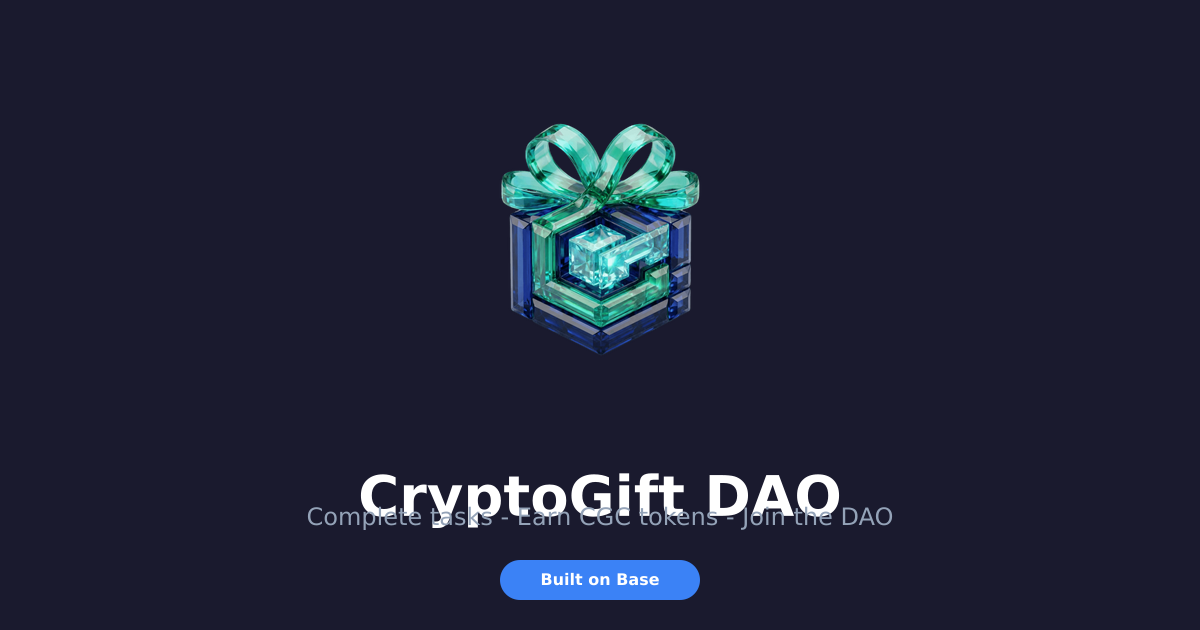
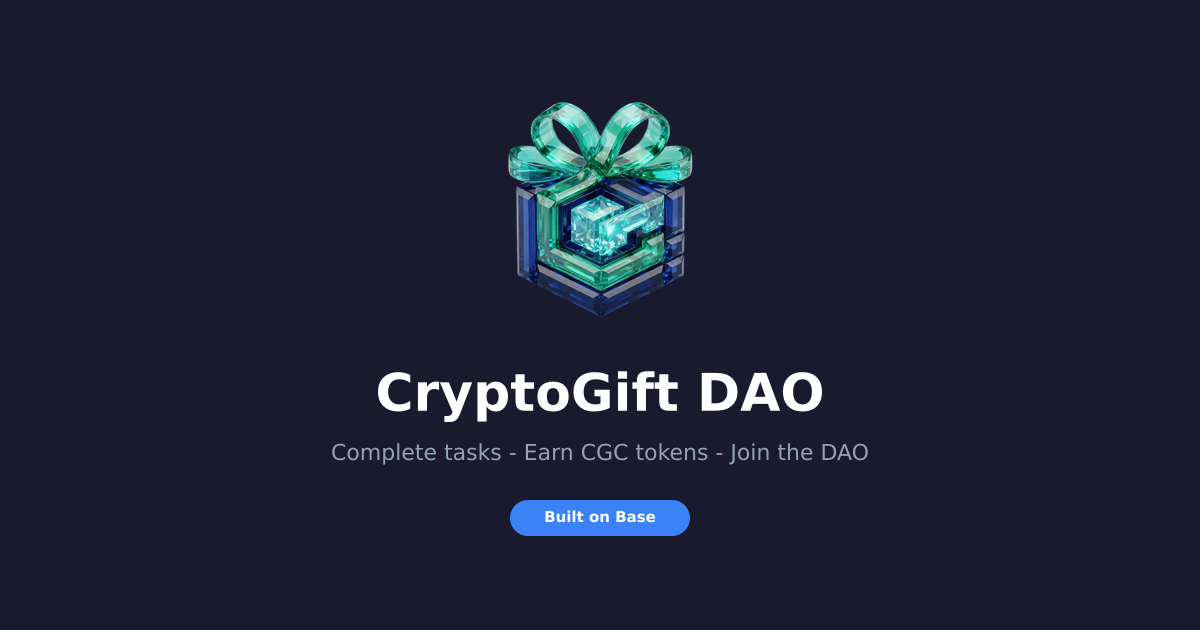
fix(farcaster): improve marketing images spacing and layout
- Move text closer to logo (reduce gap)
- Increase spacing between title and tagline
- Adjust SVG heights to prevent text overlap
- Smaller logo sizes for better proportions

Made by mbxarts.com The Moon in a Box property

Co-Author: Godez22

Changed region(s): [[0.3083, 0.1508, 0.7092, 0.6635], [0.2467, 0.6937, 0.74, 0.9651]]

diff --git a/scripts/generate-farcaster-images.js b/scripts/generate-farcaster-images.js
@@ -24,12 +24,14 @@ const LOGO_PATH = path.join(PUBLIC_DIR, 'farcaster-icon-1024.png');
 
 // Text overlay as SVG (since sharp doesn't support text directly)
 // NOTE: Avoid emojis in SVG text - they render as broken characters
+// Height is set to fontSize + padding to avoid overlap issues
 function createTextSVG(text, fontSize, color = '#ffffff') {
+  const height = fontSize + 20; // Tight height around text
   return Buffer.from(`
-    <svg width="1200" height="200">
+    <svg width="1200" height="${height}">
       <text
         x="600"
-        y="100"
+        y="${height / 2}"
         font-family="Arial, Helvetica, sans-serif"
         font-size="${fontSize}"
         font-weight="bold"
@@ -54,9 +56,9 @@ async function generatePreviewImage() {
     }
   }).png().toBuffer();
 
-  // Resize logo to fit nicely (400px)
+  // Resize logo to fit nicely (350px)
   const logo = await sharp(LOGO_PATH)
-    .resize(400, 400, { fit: 'contain', background: { r: 0, g: 0, b: 0, alpha: 0 } })
+    .resize(350, 350, { fit: 'contain', background: { r: 0, g: 0, b: 0, alpha: 0 } })
     .toBuffer();
 
   // Title SVG
@@ -64,17 +66,21 @@ async function generatePreviewImage() {
 
   // Tagline SVG (no emojis - they break in SVG)
   const taglineSVG = Buffer.from(`
-    <svg width="1200" height="60">
-      <text x="600" y="30" font-family="Arial, Helvetica, sans-serif" font-size="28" fill="#a5b4fc" text-anchor="middle" dominant-baseline="middle">Learn. Earn. Co-govern.</text>
+    <svg width="1200" height="48">
+      <text x="600" y="24" font-family="Arial, Helvetica, sans-serif" font-size="28" fill="#a5b4fc" text-anchor="middle" dominant-baseline="middle">Learn. Earn. Co-govern.</text>
     </svg>
   `);
 
-  // Composite everything
+  // Composite everything - Logo centered, text closer to logo with proper spacing
+  // Preview: 1200x800
+  // Logo: 350px at y=150 (ends at y=500)
+  // Title: at y=530 (30px gap from logo)
+  // Tagline: at y=620 (90px below title start, ~6px gap from title bottom)
   await sharp(background)
     .composite([
-      { input: logo, top: 120, left: 400 },
-      { input: titleSVG, top: 550, left: 0 },
-      { input: taglineSVG, top: 650, left: 0 }
+      { input: logo, top: 150, left: 425 },
+      { input: titleSVG, top: 530, left: 0 },
+      { input: taglineSVG, top: 620, left: 0 }
     ])
     .toFile(path.join(PUBLIC_DIR, 'farcaster-preview-1200x800.png'));
 
@@ -94,35 +100,40 @@ async function generateHeroImage() {
     }
   }).png().toBuffer();
 
-  // Resize logo (300px for hero)
+  // Resize logo (260px for hero - smaller to fit 630 height)
   const logo = await sharp(LOGO_PATH)
-    .resize(280, 280, { fit: 'contain', background: { r: 0, g: 0, b: 0, alpha: 0 } })
+    .resize(260, 260, { fit: 'contain', background: { r: 0, g: 0, b: 0, alpha: 0 } })
     .toBuffer();
 
   // Title
-  const titleSVG = createTextSVG('CryptoGift DAO', 56);
+  const titleSVG = createTextSVG('CryptoGift DAO', 52);
 
   // Subtitle (no emojis - they break in SVG)
   const subtitleSVG = Buffer.from(`
-    <svg width="1200" height="50">
-      <text x="600" y="25" font-family="Arial, Helvetica, sans-serif" font-size="24" fill="#94a3b8" text-anchor="middle">Complete tasks - Earn CGC tokens - Join the DAO</text>
+    <svg width="1200" height="40">
+      <text x="600" y="20" font-family="Arial, Helvetica, sans-serif" font-size="22" fill="#94a3b8" text-anchor="middle">Complete tasks - Earn CGC tokens - Join the DAO</text>
     </svg>
   `);
 
   // Base network badge (no emojis)
   const badgeSVG = Buffer.from(`
-    <svg width="200" height="40">
-      <rect x="0" y="0" width="200" height="40" rx="20" fill="#3b82f6"/>
-      <text x="100" y="25" font-family="Arial, Helvetica, sans-serif" font-size="16" font-weight="bold" fill="#ffffff" text-anchor="middle">Built on Base</text>
+    <svg width="180" height="36">
+      <rect x="0" y="0" width="180" height="36" rx="18" fill="#3b82f6"/>
+      <text x="90" y="22" font-family="Arial, Helvetica, sans-serif" font-size="15" font-weight="bold" fill="#ffffff" text-anchor="middle">Built on Base</text>
     </svg>
   `);
 
+  // Hero: 1200x630
+  // Logo: 260px at y=80 (ends at y=340)
+  // Title: at y=360 (20px gap from logo)
+  // Subtitle: at y=440 (80px below title start)
+  // Badge: at y=500 (60px below subtitle)
   await sharp(background)
     .composite([
-      { input: logo, top: 100, left: 460 },
-      { input: titleSVG, top: 400, left: 0 },
-      { input: subtitleSVG, top: 500, left: 0 },
-      { input: badgeSVG, top: 560, left: 500 }
+      { input: logo, top: 80, left: 470 },
+      { input: titleSVG, top: 360, left: 0 },
+      { input: subtitleSVG, top: 440, left: 0 },
+      { input: badgeSVG, top: 500, left: 510 }
     ])
     .toFile(path.join(PUBLIC_DIR, 'farcaster-hero-1200x630.png'));
 
@@ -142,26 +153,30 @@ async function generateOGImage() {
     }
   }).png().toBuffer();
 
-  // Larger logo for social (350px)
+  // Logo for social (280px)
   const logo = await sharp(LOGO_PATH)
-    .resize(320, 320, { fit: 'contain', background: { r: 0, g: 0, b: 0, alpha: 0 } })
+    .resize(280, 280, { fit: 'contain', background: { r: 0, g: 0, b: 0, alpha: 0 } })
     .toBuffer();
 
   // Big title for social
-  const titleSVG = createTextSVG('CryptoGift DAO', 72);
+  const titleSVG = createTextSVG('CryptoGift DAO', 64);
 
   // Call to action (no emojis - they break in SVG)
   const ctaSVG = Buffer.from(`
-    <svg width="1200" height="50">
-      <text x="600" y="25" font-family="Arial, Helvetica, sans-serif" font-size="28" fill="#a5b4fc" text-anchor="middle">Earn CGC by completing tasks</text>
+    <svg width="1200" height="44">
+      <text x="600" y="22" font-family="Arial, Helvetica, sans-serif" font-size="26" fill="#a5b4fc" text-anchor="middle">Earn CGC by completing tasks</text>
     </svg>
   `);
 
+  // OG: 1200x630
+  // Logo: 280px at y=80 (ends at y=360)
+  // Title: at y=380 (20px gap from logo)
+  // CTA: at y=470 (90px below title start)
   await sharp(background)
     .composite([
-      { input: logo, top: 80, left: 440 },
-      { input: titleSVG, top: 420, left: 0 },
-      { input: ctaSVG, top: 530, left: 0 }
+      { input: logo, top: 80, left: 460 },
+      { input: titleSVG, top: 380, left: 0 },
+      { input: ctaSVG, top: 470, left: 0 }
     ])
     .toFile(path.join(PUBLIC_DIR, 'farcaster-og-1200x630.png'));
 
